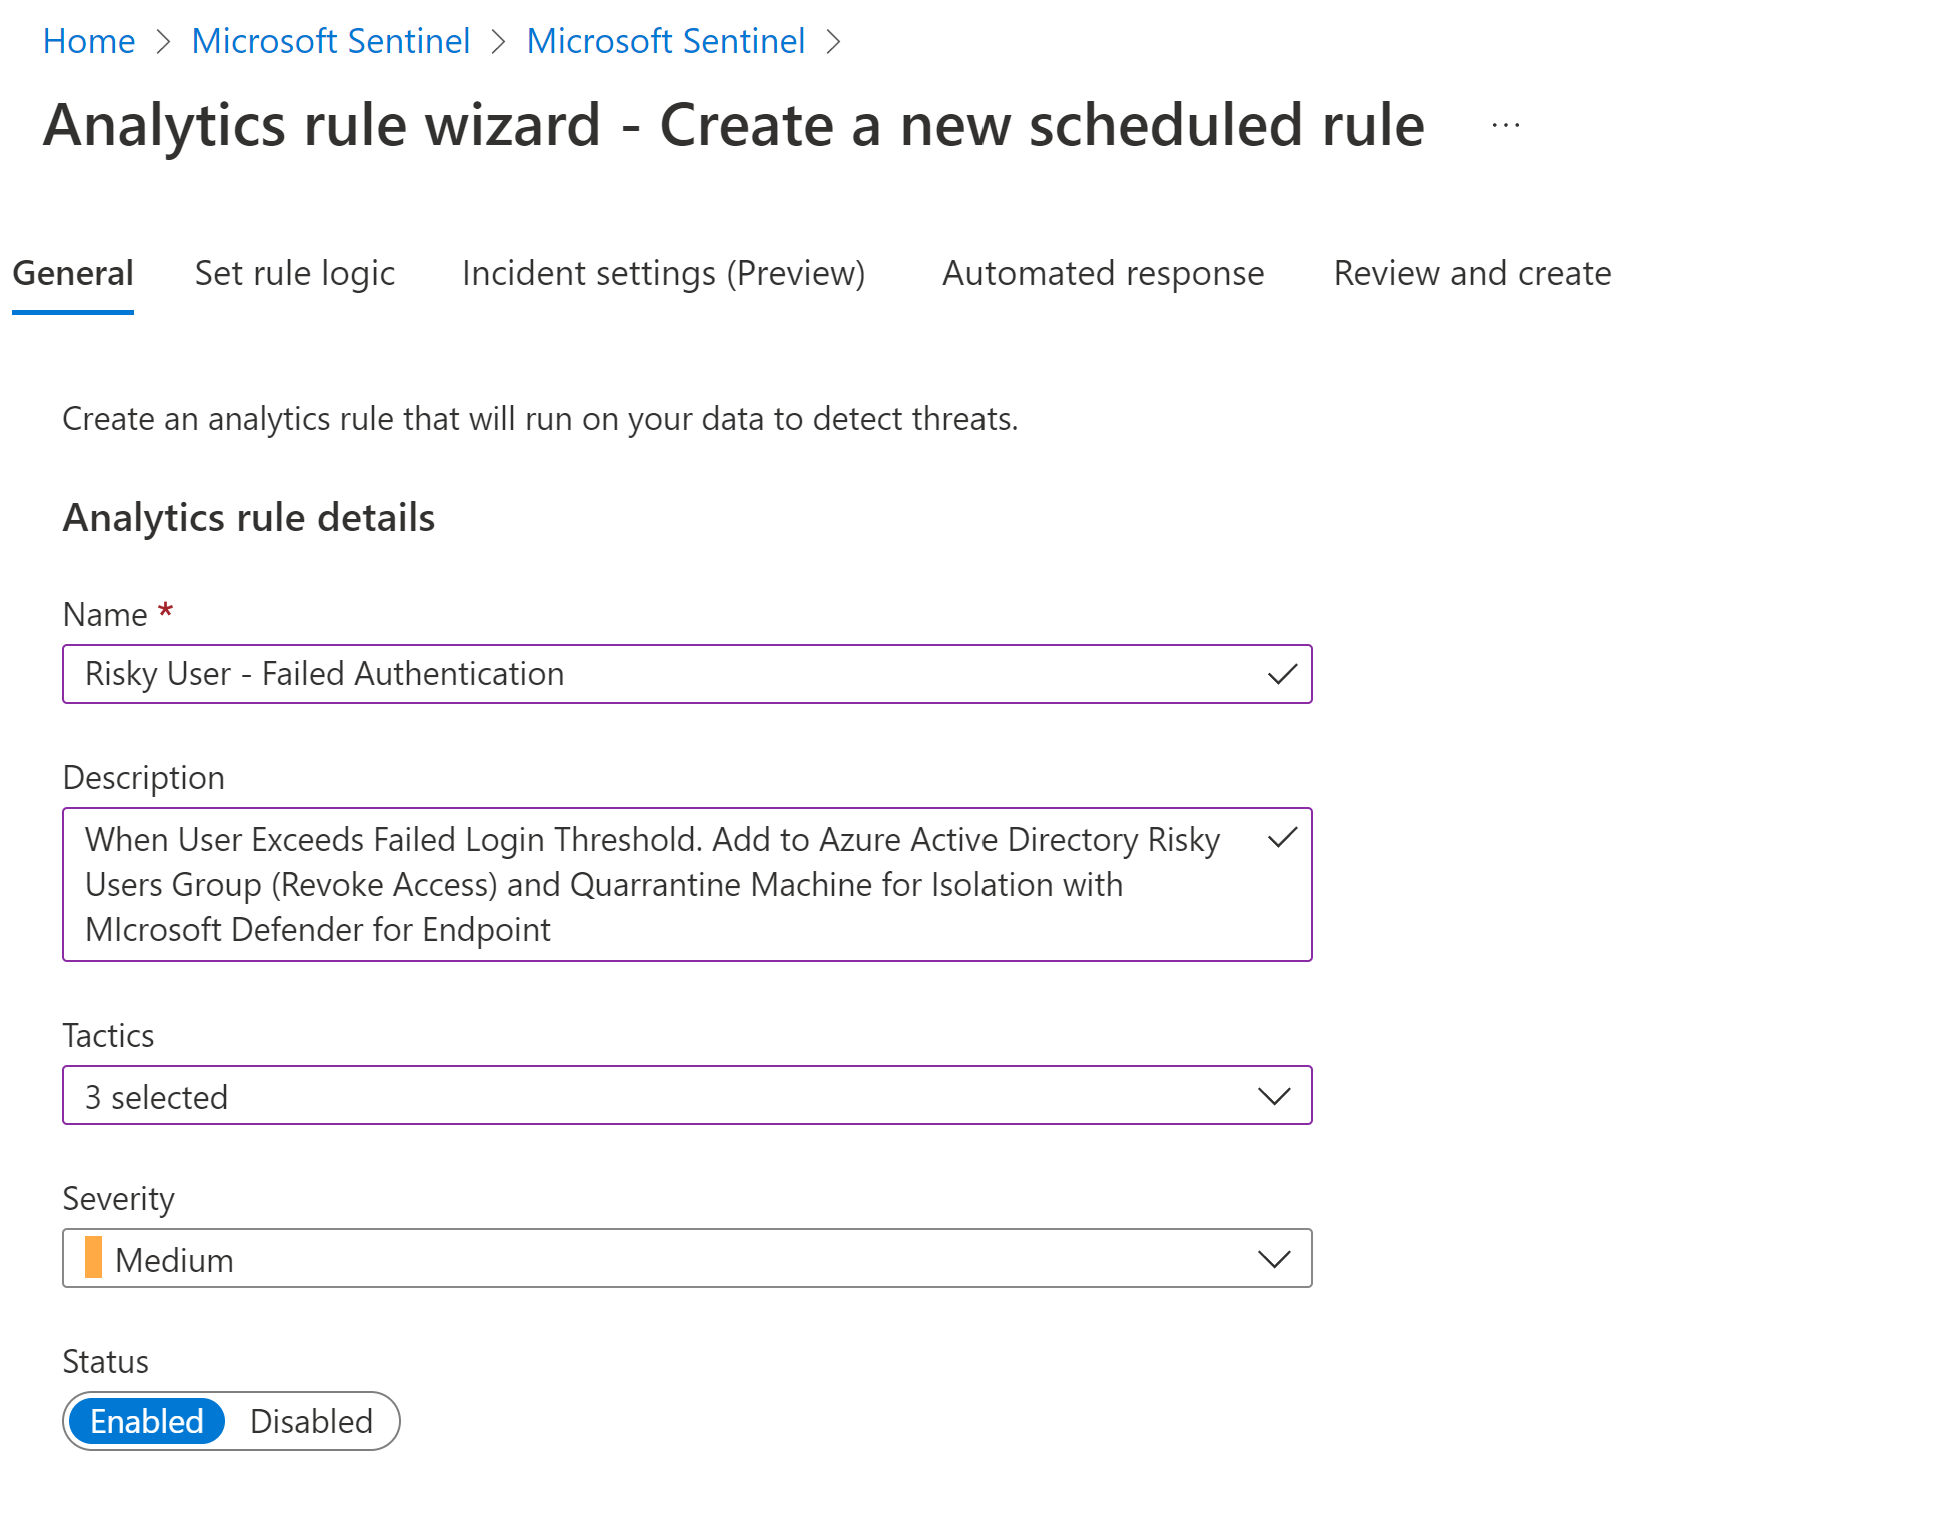
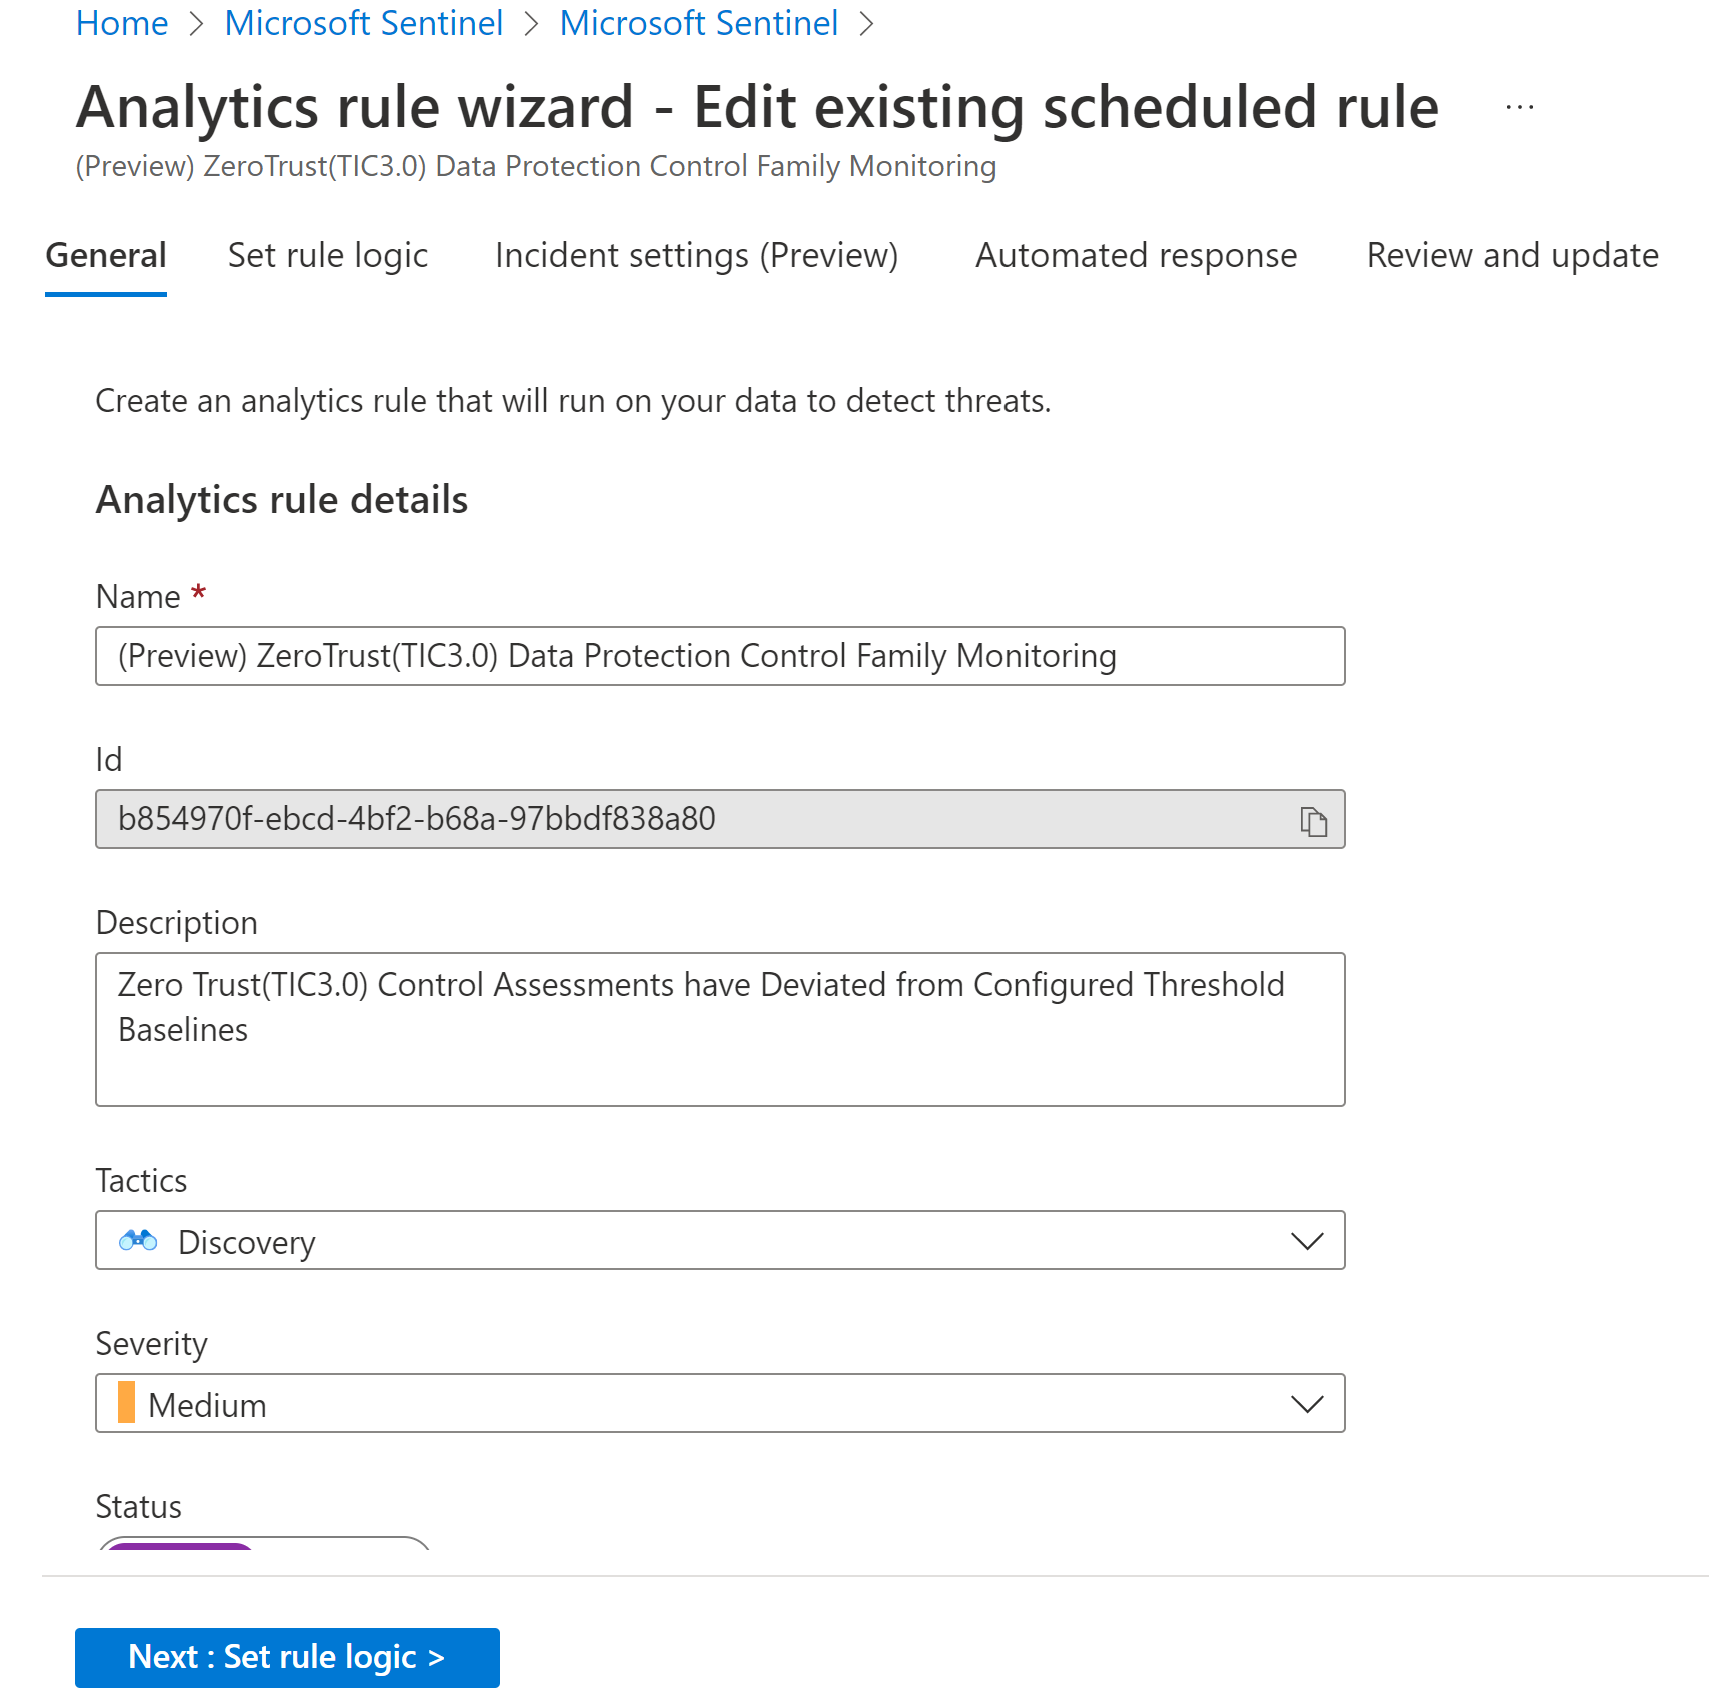
tj's solution updates in progress

diff --git a/zero-trust/integrate/sentinel-workbook.md b/zero-trust/integrate/sentinel-workbook.md
@@ -1,7 +1,7 @@
 ---
 title: View Zero Trust in your environment with Microsoft Sentinel
 description: Install and learn how to use the Microsoft Sentinel Zero Trust (TIC3.0) workbook for an automated visualization of Zero Trust principles, cross-walked to the Trusted Internet Connections framework.
-ms.date: 12/07/2021
+ms.date: 12/15/2021
 ms.service: security
 author: batamig
 ms.author: bagol
@@ -10,54 +10,69 @@ ms.topic: how-to
 
 # View Zero Trust in your environment with Microsoft Sentinel
 
-The Microsoft Sentinel Zero Trust (TIC 3.0) workbook provides an automated visualization of Zero Trust principles, cross-walked to the Trust Internet Connections framework, and helps organizations to monitor configurations over time.
-
-The Zero Trust workbook uses the full breadth of Microsoft Security offerings across Azure, Microsoft 365, Teams, Intune, Windows Virtual Desktop, and more. It uses automation to visualize your Zero Trust security architecture and helps users across your teams to gain situational awareness for cloud workloads' security posture. The workbook is designed to augment staffing through automation, artificial intelligence, machine learning, query/alerting generation, visualizations, tailored recommendations, and respective documentation references.
+The Microsoft Sentinel **Zero TrustTIC30** solution enables governance and compliance teams to design, build, monitor, and respond to Zero Trust (TIC 3.0) requirements. The solution includes a workbook, analytics rules, and a playbook, which provide an automated visualization of Zero Trust principles, cross-walked to the Trust Internet Connections framework, helping organizations to monitor configurations over time.
 
 This article describes how to install and use the Microsoft Sentinel Zero Trust workbook in your Microsoft Sentinel workspace.
 
+While only Microsoft Sentinel is required to get started, the solution is enhanced by integrations with other Microsoft Services, such as:
+
+- [Microsoft 365 Defender](https://www.microsoft.com/microsoft-365/security/microsoft-365-defender)
+- [Microsoft Information Protection](/microsoft-365/compliance/information-protection)
+- [Azure Active Directory](https://azure.microsoft.com/services/active-directory/)
+- [Microsoft Defender for Cloud](https://azure.microsoft.com/services/active-directory/)
+- [Microsoft Defender for Endpoint](https://www.microsoft.com/microsoft-365/security/endpoint-defender)
+- [Microsoft Defender for Identity](https://www.microsoft.com/microsoft-365/security/identity-defender)
+- [Microsoft Defender for Cloud Apps](https://www.microsoft.com/microsoft-365/enterprise-mobility-security/cloud-app-security)
+- [Microsoft Defender for Office 365](https://www.microsoft.com/microsoft-365/security/office-365-defender)
+
 For more information, see [Guiding principles of Zero Trust](../index.md#guiding-principles-of-zero-trust).
 
-## The Zero Trust workbook and the TIC framework
+## The Zero Trust solution and the TIC 3.0 framework
 
-While the Microsoft Sentinel Zero Trust (TIC 3.0) workbook provides best practice guidance, Microsoft does not guarantee nor imply compliance. All Trusted Internet Connection (TIC) requirements, validations, and controls are governed by the [Cybersecurity & Infrastructure Security Agency](https://www.cisa.gov/trusted-internet-connections).
+Zero Trust and TIC 3.0 are not the same, but they share many common themes and together provide a common story. The Microsoft Sentinel Zero Trust solution offers detailed crosswalks between the Microsoft Zero Trust model with the TIC 3.0 framework and helps users to better understand the overlaps between the two.
 
-The Zero Trust workbook provides visibility and situational awareness for control requirements delivered with Microsoft technologies in predominantly cloud-based environments. Customer experience will vary by user, and some panes may require additional configurations and query modification for operation.
+While the Microsoft Sentinel **Zero TrustTIC30** solution provides best practice guidance, Microsoft does not guarantee nor imply compliance. All Trusted Internet Connection (TIC) requirements, validations, and controls are governed by the [Cybersecurity & Infrastructure Security Agency](https://www.cisa.gov/trusted-internet-connections).
+
+The Zero Trust solution provides visibility and situational awareness for control requirements delivered with Microsoft technologies in predominantly cloud-based environments. Customer experience will vary by user, and some panes may require additional configurations and query modification for operation.
 
 Recommendations do not imply coverage of respective controls, as they are often one of several courses of action for approaching requirements, which is unique to each customer. Recommendations should be considered a starting point for planning full or partial coverage of respective control requirements.
 
-> [!NOTE]
-> Zero Trust and TIC 3.0 are not the same, but they share many common themes and together provide a common story. The Microsoft Sentinel Zero Trust workbook offers detailed crosswalks between the Microsoft Zero Trust model with the TIC 3.0 framework and helps users to better understand the overlaps between the two.
->
+The Microsoft Sentinel **Zero TrustTIC30** solution is useful for any of the following users and use cases:
 
-## Workbook use cases and user types
+- **Security governance, risk, and compliance professionals**, for compliance posture assessment and reporting
+- **Engineers and architects**, who need to design Zero Trust and TIC 3.0-aligned workloads
+- **Security analysts**, for alert and automation building
+- **Managed security service providers (MSSPs)** for consulting services
+- **Security managers**, who need to review requirements, analyze reporting, evaluating capabilities
 
-The Microsoft Sentinel Zero Trust (TIC 3.0) workbook is useful for any of the following users and use cases:
 
-- **Security architect**: Build and design a cloud security architecture to compliance requirements.
-- **Managed security services provider** (MSSP): Use the workbook for Zero Trust (TIC3.0) Assessments.
-- **Security operations analyst**: Review activity in query, configure alerts, deploy SOAR automation.
-- **IT professional**: Identify performance issues, investigate issues, set alerts for remediation monitoring.
-- **Security Engineer**: Assess security controls, review alerting thresholds, adjust configurations.
-- **Security Manager**: Review requirements, analyze reporting, evaluate capabilities, adjust accordingly.
+## Install the Zero TrustTIC30 solution
 
-For example, the following process show how a security operations analyst can use the workbook to review requirements, explore queries, configure alerts, and implement automation.
+## Sample usage scenario
 
-1. **Review current query output**, for example for Adaptive Access Control:
+The following process shows how a security operations analyst could use the resources deployed with the Zero TrustTIC30 solution to review requirements, explore queries, configure alerts, and implement automation.
+
+1. In Microsoft Sentinel navigate to the **Workbooks** > **Zero Trust (TIC 3.0)** workbook, and select **View saved workbook**.
+
+    In the **Zero Trust (TIC 3.0)** workbook, select TIC 3.0 capabilities to view. For this procedure, select **Intrusion Detection**.
+
+1. **Review control cards**. For example, scroll down to view the Adaptive Access Control card:
 
     :::image type="content" source="../media/integrate/sentinel-workbook/review-query-output-sample.png" alt-text="Screenshot of the Adaptive Access Control card.":::
 
-1. **Explore query**. At the top right of the pane, select the options **:** menu > **Open the last run query in the Logs view.**
+1. **Explore query**. At the top right of the Adaptive Access Control card, select the **:** More button, and then select the :::image type="icon" source="../media/integrate/sentinel-workbook/icon-open-in-logs.png" border="false"::: **Open the last run query in the Logs view.** option.
+
+    The query is opened in the Microsoft Sentinel **Logs** page:
 
     :::image type="content" source="../media/integrate/sentinel-workbook/explore-query-logs.png" alt-text="Screenshot of the selected query in the Microsoft Sentinel Logs page.":::
 
-3. **Configure alert**. In the Microsoft Sentinel **Analytics** area, configure a new alert or update an existing alert as needed. For example:
+1. **Configure alert**. Close the **Logs** page and the workbook, and go to the Microsoft Sentinel **Analytics** area. There, view out-of-the-box analytics rules deployed with the **Zero TrustTIC30** solution by searching for **TIC3.0**. Update the rules as needed or configure a new one.
 
-    :::image type="content" source="../media/integrate/sentinel-workbook/create-a-new-rule.png" alt-text="Screenshot of the Analytics rule wizard.":::
+    :::image type="content" source="../media/integrate/sentinel-workbook/edit-rule.png" alt-text="Screenshot of the Analytics rule wizard.":::
 
     For more information, see [Create custom analytics rules to detect threats](/azure/sentinel/detect-threats-custom).
 
-4. **Respond with SOAR**. In the Microsoft Sentinel **Automation** area, create or update an automation playbook to take required actions automatically. For example, in the Logic app designer:
+4. **Respond with SOAR**. In the Microsoft Sentinel **Automation** > **Active playbooks** tab, find the the out-of-the-box **Notify-GovernanceComplianceTeam** playbook, which was deployed with the you can use  to have the governance compliance team automatically notified for any risks in the environment. create or update an automation playbook to take required actions automatically. For example, in the Logic app designer:
 
     :::image type="content" source="../media/integrate/sentinel-workbook/logic-app-sample.png" alt-text="Screenshot of the Logic app designer showing a sample playbook.":::
 
@@ -65,68 +80,23 @@ For example, the following process show how a security operations analyst can us
 
 ## Prerequisites
 
-### Onboard Microsoft services
+Before installing the **Zero TrustTIC30** solution, make sure you have the following prerequisites:
 
-In order to use the Zero Trust workbook, you must have both Microsoft Sentinel and Microsoft Defender for Cloud enabled in your Azure subscription.
+- **Onboard Microsoft services**: Make sure that you have both [Microsoft Sentinel](/azure/sentinel/quickstart-onboard) and [Microsoft Defender for Cloud](/azure/defender-for-cloud/get-started) enabled in your Azure subscription.
 
-For more information, see:
+- **Microsoft Defender for Cloud requirements**: In Microsoft Defender for Cloud:
 
-- [Onboard to Microsoft Sentinel](/azure/sentinel/quickstart-onboard)
-- [Onboard to Microsoft Defender for Cloud](/azure/defender-for-cloud/get-started)
+    - Add required regulatory standards to your dashboard. Make sure to add both the *Azure Security Benchmark* and *NIST SP 800-53 R5 Assessments* to your Microsoft Defender for Cloud dashboard. For more information, see [add a regulatory standard to your dashboard](/azure/security-center/update-regulatory-compliance-packages?WT.mc_id=Portal-fx#add-a-regulatory-standard-to-your-dashboard) in the Microsoft Defender for Cloud documentation.
 
-### Microsoft Defender for Cloud requirements
+    - Continuously export Microsoft Defender for Cloud data to your Log Analytics workspace. For more information, see [Continuously export Microsoft Defender for Cloud data](/azure/defender-for-cloud/continuous-export?tabs=azure-portal).
 
-In Microsoft Defender for Cloud:
-
-- **Add required regulatory standards to your dashboard**: Make sure to add both the *Azure Security Benchmark* and *NIST SP 800-53 R5 Assessments* to your Microsoft Defender for Cloud dashboard. For more information, see [add a regulatory standard to your dashboard](/azure/security-center/update-regulatory-compliance-packages?WT.mc_id=Portal-fx#add-a-regulatory-standard-to-your-dashboard) in the Microsoft Defender for Cloud documentation.
-
-- **Continuously export Microsoft Defender for Cloud data to your Log Analytics workspace**. For more information, see [Continuously export Microsoft Defender for Cloud data](/azure/defender-for-cloud/continuous-export?tabs=azure-portal).
-
-### Install and verify relevant Microsoft Sentinel data connectors
-
-Before you use the Zero Trust (TIC 3.0) workbook, we recommend that you have the following log sources connected to Microsoft Sentinel via data connectors, and have verified that you have logs streaming into Microsoft Sentinel:
-
-:::row:::
-   :::column span="":::
-      - [Azure Active Directory](/azure/sentinel/data-connectors-reference#azure-active-directory)
-      - [Azure Activity](/azure/sentinel/data-connectors-reference#azure-activity)
-      - [Azure DDoS Protection](/azure/sentinel/data-connectors-reference#azure-ddos-protection)
-      - [Azure Firewall](/azure/sentinel/data-connectors-reference#azure-firewall)
-      - [Azure Information Protection](/azure/sentinel/data-connectors-reference#azure-information-protection)
-      - [Azure Web Application Firewall](/azure/sentinel/data-connectors-reference#azure-web-application-firewall-waf)
-      - [Microsoft 365 Defender](/azure/sentinel/connect-microsoft-365-defender)
-   :::column-end:::
-   :::column span="":::
-      - [Microsoft Defender for Cloud](/azure/sentinel/connect-defender-for-cloud)
-      - [Microsoft Defender for Cloud Apps](/azure/sentinel/data-connectors-reference#microsoft-defender-for-cloud-apps)
-      - [Microsoft Defender for Office 365](/azure/sentinel/data-connectors-reference#microsoft-defender-for-office-365)
-      - [Security events](/azure/sentinel/data-connectors-reference#security-events-via-legacy-agent-windows) via Legacy Agent (Windows)
-      - [Syslog](/azure/sentinel/connect-syslog)
-   :::column-end:::
-   :::column span="":::
-      - [Threat Intelligence](/azure/sentinel/connect-threat-intelligence-tip#enable-the-threat-intelligence-platforms-data-connector-in-microsoft-sentinel)
-      - [Threat Intelligence - TAXII](/azure/sentinel/connect-threat-intelligence-taxii#enable-the-threat-intelligence---taxii-data-connector-in-microsoft-sentinel)
-      - [Windows DNS Server](/azure/sentinel/data-connectors-reference#windows-dns-server)
-      - [Windows Firewall](/azure/sentinel/data-connectors-reference#windows-firewall)
-      - [Windows Security Events](/azure/sentinel/data-connectors-reference#windows-security-events-via-ama) via AMA
-   :::column-end:::
-:::row-end:::
-
-
-Many data connectors are available both as standalone data connectors, and as Microsoft Sentinel solutions. For more information, see:
-
-- [Connect Microsoft Sentinel to Azure, Windows, Microsoft, and Amazon services](/azure/sentinel/connect-azure-windows-microsoft-services)
-- [Centrally discovery and deploy out-of-the-box content and solutions](/azure/sentinel/sentinel-solutions-deploy)
-
-### Required user permissions
-
-To deploy the Zero Trust workbook, you must have access to your Microsoft Sentinel workspace with [Security Reader](/azure/active-directory/roles/permissions-reference#security-reader) permissions.
+- **Required user permissions**. To install the **Zero TrustTIC30** solution, you must have access to your Microsoft Sentinel workspace with [Security Reader](/azure/active-directory/roles/permissions-reference#security-reader) permissions.
 
 ## Deploy and navigate the workbook
 
-To deploy the Zero Trust (TIC 3.0) workbook from the Azure portal:
+To deploy the **Zero TrustTIC30** solution from the Azure portal:
 
-1. In Microsoft Sentinel, select **Content hub** and locate the **Microsoft Sentinel Zero Trust (TIC 3.0)** solution.
+1. In Microsoft Sentinel, select **Content hub** and locate the **Zero TrustTIC30** solution
 
 1. Select **Configure deployment options > Create** to install the solution in your Microsoft Sentinel workspace and deploy the Zero Trust workbook. For more information, see [Deploy out-of-the-box content and solutions](/azure/sentinel/sentinel-solutions-deploy).
 
